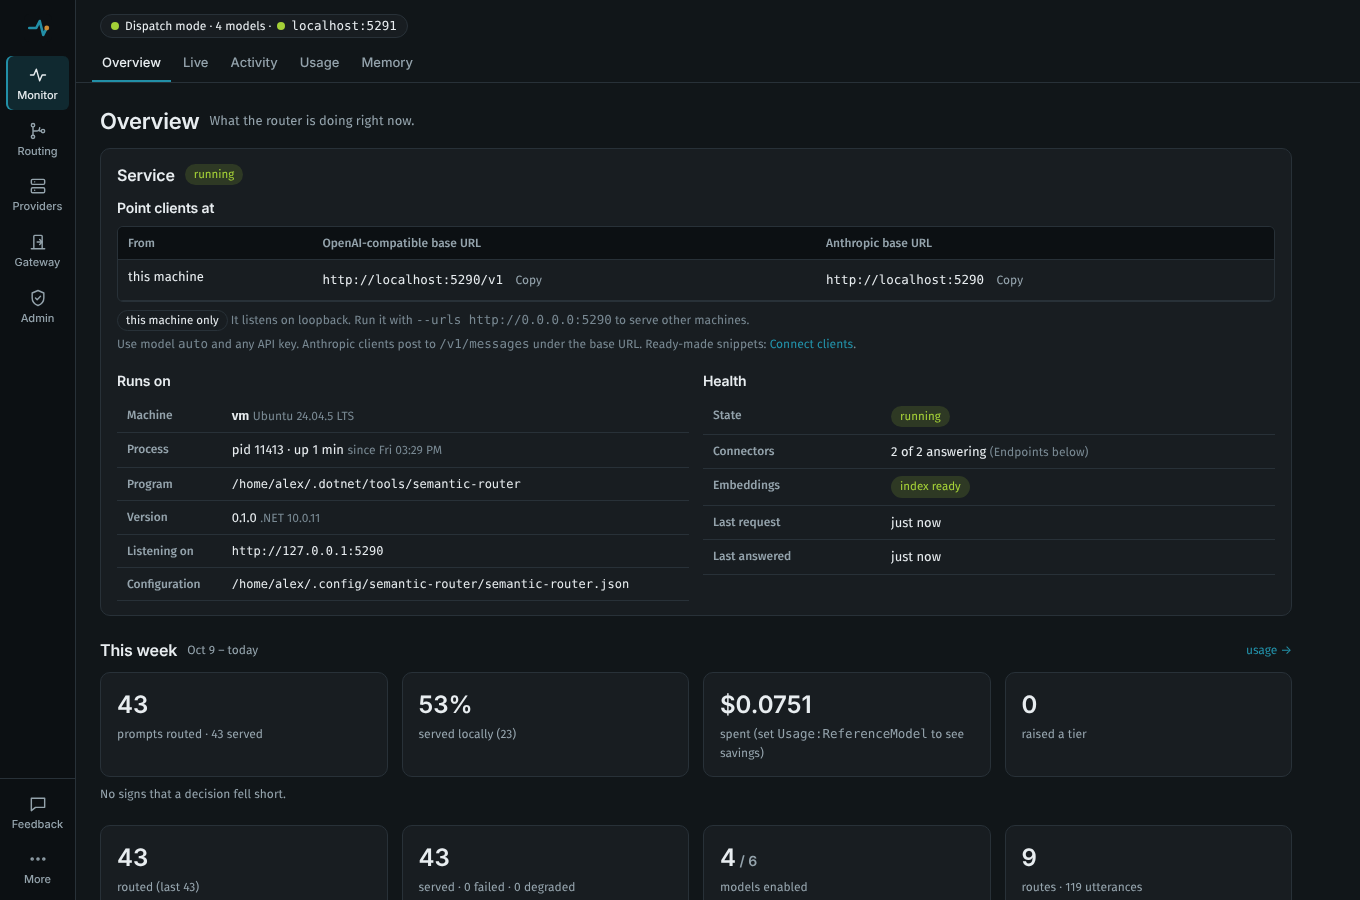
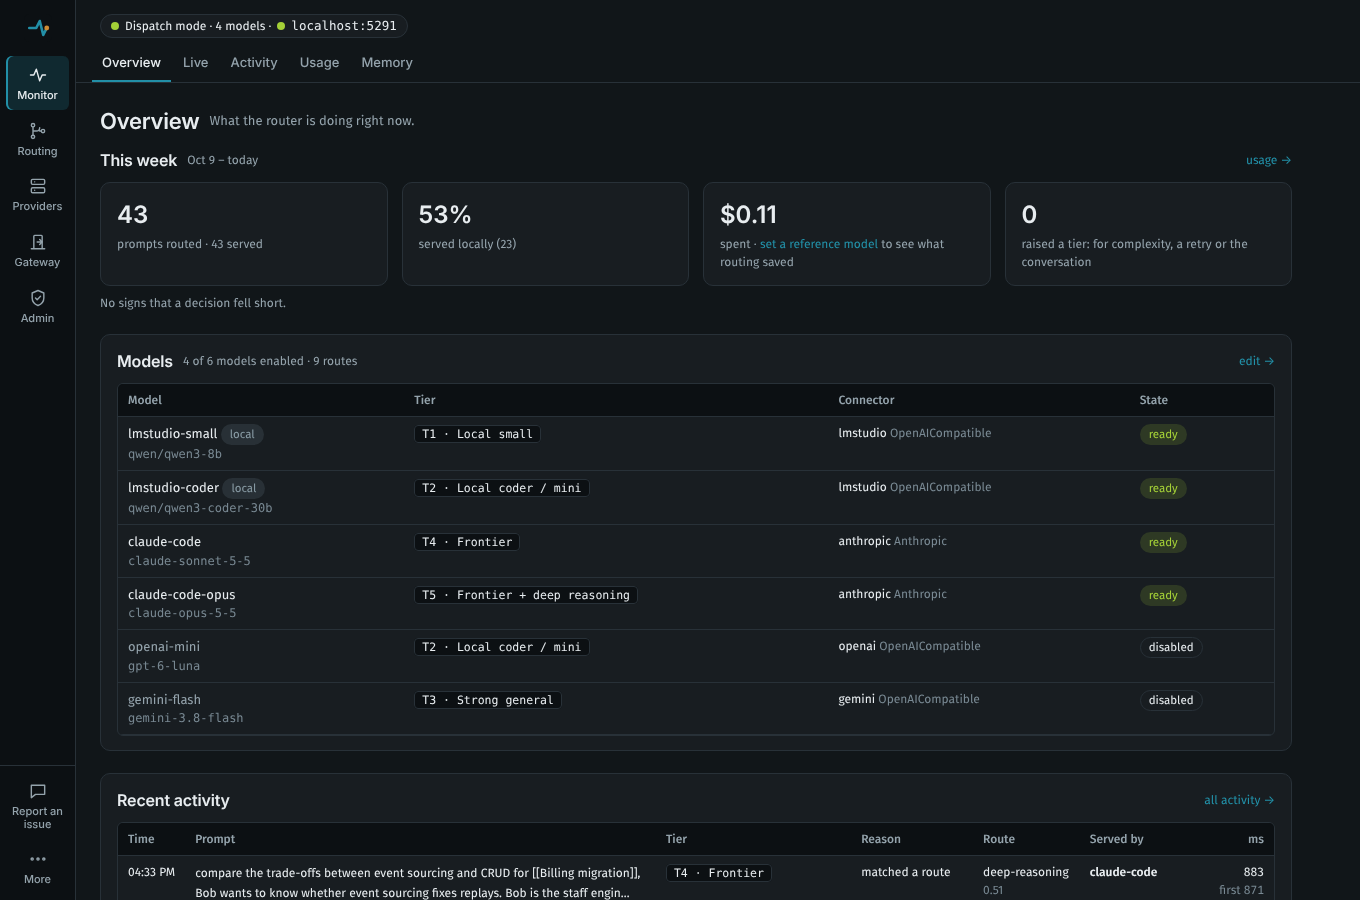
Setup card: a found tool once, the other presets folded; new docs images
On a machine where Claude Code was found, the setup card listed it
twice (found, and as a preset) and ten entries pushed the next steps
off the screen. A preset for something already found is left out, and
the other presets fold under "Other providers" when something was found
(the Connectors page and the Add connector menu still list them all).

The README, Live and memory-map images are retaken on the new dashboard.

Claude-Session: https://claude.ai/code/session_01GVdrPAZhZXCPW9NcLfrxwu

diff --git a/src/SemanticRouter.AspNetCore/Dashboard/wwwroot/js/setup.js b/src/SemanticRouter.AspNetCore/Dashboard/wwwroot/js/setup.js
@@ -2,7 +2,7 @@
    behind Add connector), and discovering a connector's models from the draft. */
 import { lineupPanel } from './config.js';
 import { $, api, h, isDirty, lineupFor, readOnly, state, toast } from './core.js';
-import { closeSection, openAttr } from './fields.js';
+import { advanced, closeSection, openAttr } from './fields.js';
 import { plural } from './labels.js';
 import { pageActions } from './page-actions.js';
 import { render } from './shell.js';
@@ -75,13 +75,24 @@ function choice(c, detected) {
   </li>`;
 }
 
-/* Detected tools first, then the presets. With blank, the last entry adds an empty connector to fill in by hand. */
+/*
+ * Detected tools first, then the presets. With blank, the last entry adds an empty connector to fill in by hand. A
+ * preset for something already detected is left out (Claude Code found and Claude Code the preset are the same thing),
+ * and in the setup card, when something was found, the other presets fold away: the list was ten entries long, and
+ * pushed steps 2 and 3 off the screen.
+ */
 export function presetList(blank) {
   const s = setup();
   if (!s.data) { loadSetup(); return '<p class="muted small">Looking for providers on this machine…</p>'; }
-  const detected = s.data.detected || []; const presets = s.data.presets || [];
-  return `<ul class="choices">${detected.map((c) => choice(c, true)).join('')}${presets.map((c) => choice(c, false)).join('')}
-    ${blank ? `<li class="choice"><div class="choice-text"><b>Blank connector</b><div class="small muted">Any OpenAI-compatible server, the Anthropic API or a CLI, set up by hand.</div></div><button class="btn small" data-action="connector-add">Add</button></li>` : ''}</ul>
+  const detected = s.data.detected || [];
+  const found = (p) => detected.some((d) => d.id === p.id || (d.id === 'copilot-cli' && p.id === 'copilot'));
+  const presets = (s.data.presets || []).filter((p) => !found(p));
+  const blankEntry = blank ? `<li class="choice"><div class="choice-text"><b>Blank connector</b><div class="small muted">Any OpenAI-compatible server, the Anthropic API or a CLI, set up by hand.</div></div><button class="btn small" data-action="connector-add">Add</button></li>` : '';
+  const others = `<ul class="choices">${presets.map((c) => choice(c, false)).join('')}${blankEntry}</ul>`;
+  const list = detected.length && !blank
+    ? `<ul class="choices">${detected.map((c) => choice(c, true)).join('')}</ul>${presets.length ? advanced('setup-other-providers', `Other providers (${presets.length})`, others) : ''}`
+    : `<ul class="choices">${detected.map((c) => choice(c, true)).join('')}${presets.map((c) => choice(c, false)).join('')}${blankEntry}</ul>`;
+  return `${list}
     ${s.error || s.data.detectionProblem ? `<p class="small muted">Couldn't look for everything on this machine: ${h(s.error || s.data.detectionProblem)}</p>` : ''}`;
 }
 

diff --git a/tests/dashboard-e2e/pages.spec.js b/tests/dashboard-e2e/pages.spec.js
@@ -114,6 +114,25 @@ test('with no model enabled, the Overview walks through setup: connector, models
   await expect(page.locator('#setup')).toHaveCount(0);
 });
 
+test('a tool found on this machine comes first, once, and the other presets fold away', async ({ page, request }) => {
+  expect((await request.put('/router/api/config?persist=false', { data: empty })).ok()).toBeTruthy();
+  const claude = { id: 'claude-code', title: 'Claude Code', kind: 'cli', detail: 'Signed in', consent: 'Uses your Claude subscription.', connector: { name: 'claude-cli', settings: { Type: 'Cli', Preset: 'ClaudeCode' } }, models: [] };
+  const presetClaude = { ...claude, detail: 'Your Claude subscription through the claude CLI' };
+  await page.route('**/router/api/setup', (r) => r.fulfill({ json: { ...SETUP, detected: [claude], presets: [...SETUP.presets, presetClaude] } }));
+  await open(page, 'overview');
+  const card = page.locator('#setup');
+  await expect(card.locator('.choice b', { hasText: /^Claude Code$/ })).toHaveCount(1);
+  await expect(card.locator('.choice', { hasText: 'Claude Code' })).toContainText('found');
+  const others = card.locator('details.advanced', { has: page.locator('summary', { hasText: 'Other providers (2)' }) });
+  await expect(others).not.toHaveAttribute('open', '');
+  await expect(card.locator('.choice b', { hasText: /^LM Studio$/ })).toBeHidden();
+  await others.locator('summary').click();
+  await expect(card.locator('.choice b', { hasText: /^LM Studio$/ })).toBeVisible();
+  // The empty Connectors page lists everything unfolded, still without the duplicate.
+  await open(page, 'connectors');
+  await expect(page.locator('#view .empty-state .choice')).toHaveText([/Claude Code/, /LM Studio/, /OpenAI/, /Blank connector/]);
+});
+
 test('the setup card lists the router\'s own presets, and a gateway refusal says where to fix it', async ({ page, request }) => {
   expects4xx.add(page); // the gateway refuses the Send with a 400
   const setup = await request.get('/router/api/setup');
@@ -122,6 +141,9 @@ test('the setup card lists the router\'s own presets, and a gateway refusal says
   await open(page, 'overview');
   const card = page.locator('#setup');
   await expect(card.locator('h2')).toHaveText('Set up SemanticRouter');
+  // On a machine where a CLI was found, the other presets are folded under "Other providers".
+  const others = card.locator('details.advanced > summary', { hasText: 'Other providers' });
+  if (await others.count()) await others.click();
   await expect(card.locator('.choice b', { hasText: /^LM Studio$/ })).toBeVisible();
   await expect(card.locator('.choice b', { hasText: /^OpenAI$/ })).toBeVisible();
   // The banner leaves "no model is enabled" to the card here.
